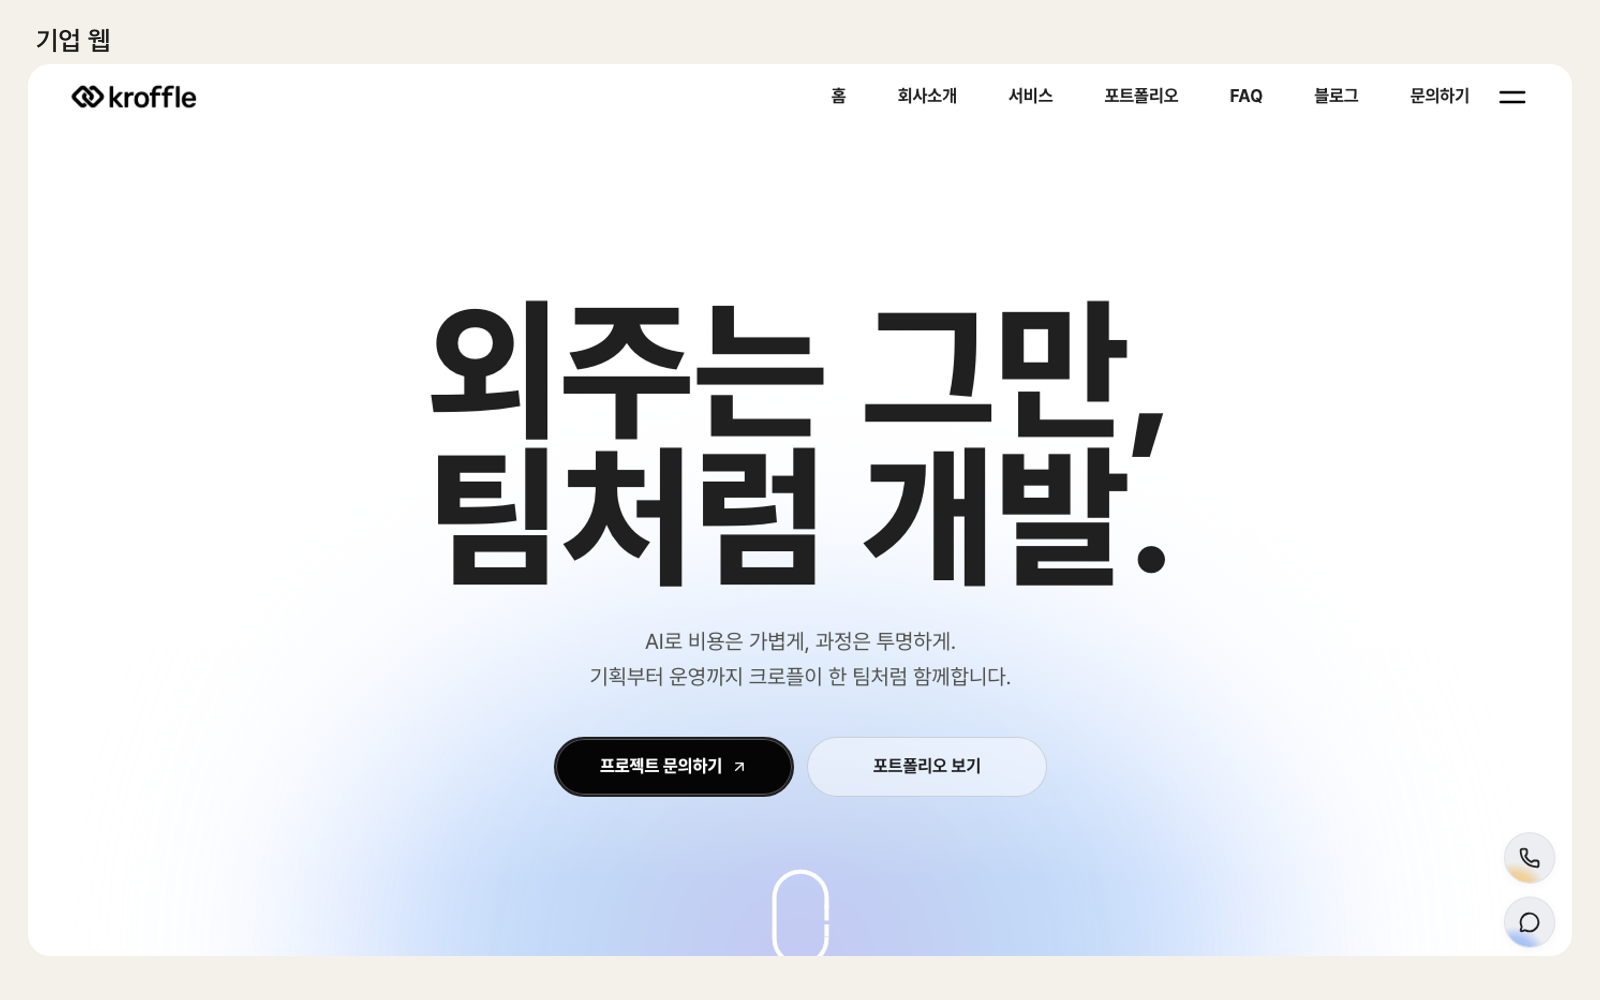
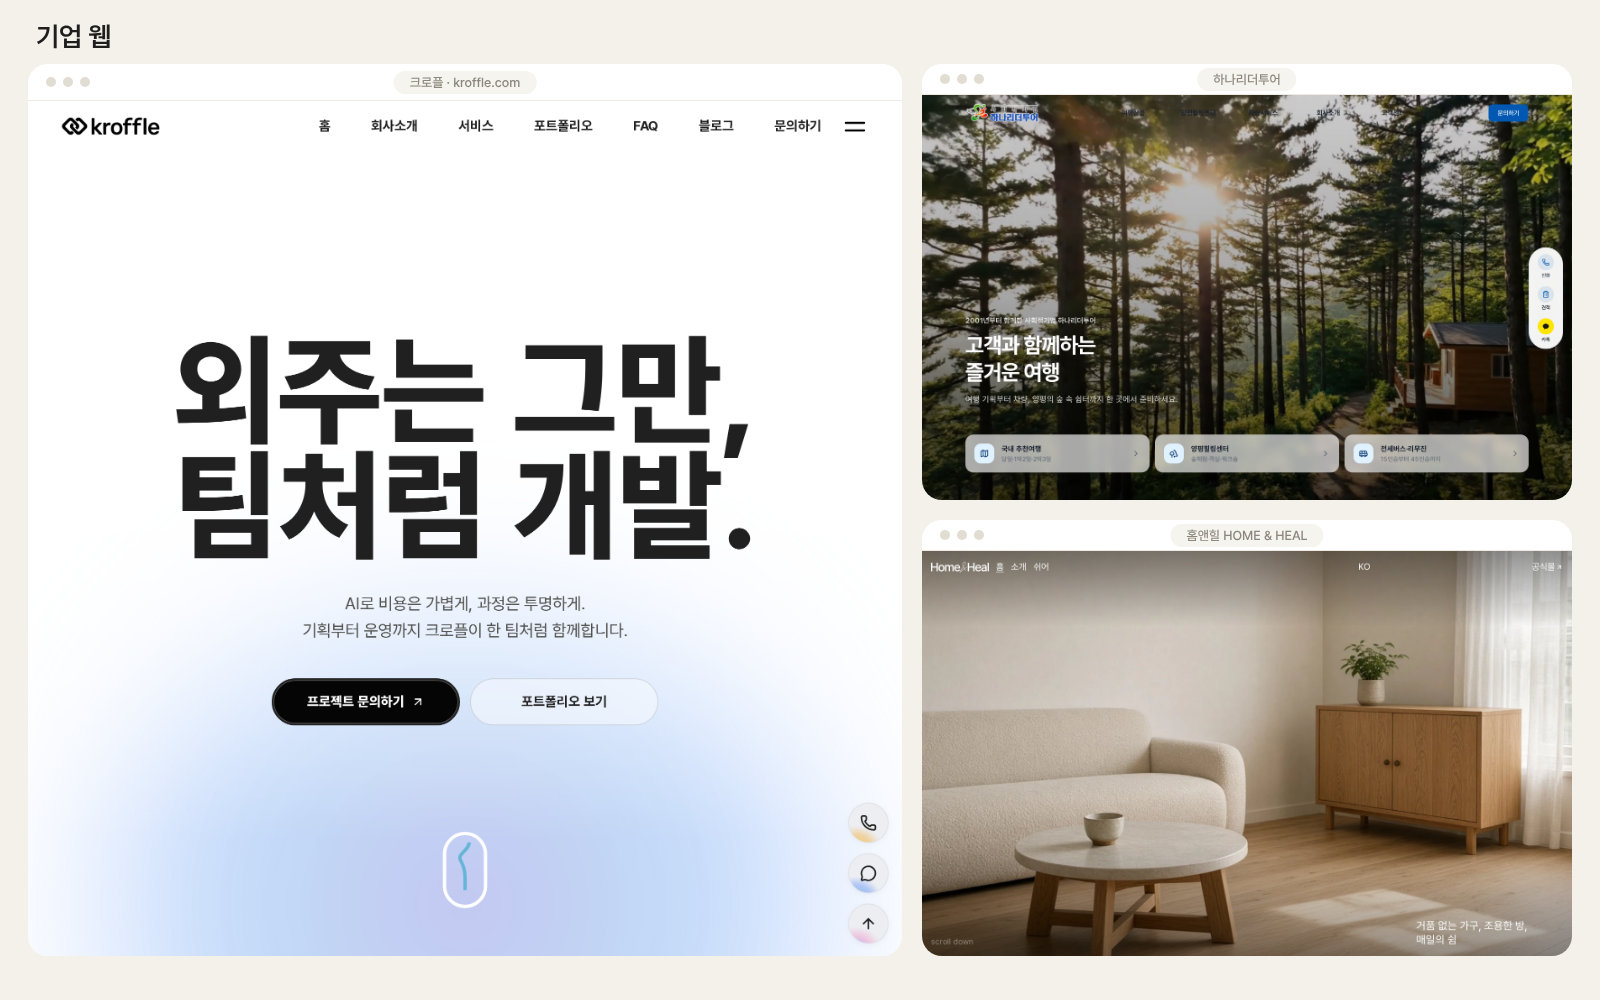
✨ feat: 기업·브랜드 웹 케이스를 9종 기준으로 갱신 - 하나리더투어·홈앤힐 구성, 기간, 카피 반영 - 하나 OG·홈앤힐 로고·As-Is/To-Be·관리자 화면 추가 - 케이스 카드 썸네일을 노션 카드로 교체

diff --git a/src/content/works.ts b/src/content/works.ts
@@ -138,16 +138,27 @@ export const WORKS: WorkItem[] = [
     slug: 'sites',
     label: 'SITES',
     labelEyebrow: 'SEO GEO AEO',
-    title: '기업·브랜드 웹 7종',
-    period: '2026.01 — 2026.08',
-    role: '프론트엔드, 공개 웹 7종, 다국어, SEO, 문의 연결',
+    title: '기업·브랜드 웹 9종',
+    period: '2026.01 — 2026.10',
+    role: '프론트엔드, 공개 웹 9종, 다국어, SEO, 문의 연결',
     oneLiner:
-      '공개 웹 7종의 우선순위는 검색 노출과 문의 전환이었습니다.\n다국어·SEO·인터랙션·문의를 리드 전환형으로 맞췄습니다.',
-    homeLine: '크로플 · 감탄누수 · 빛자루 · 고야차트 · 탑애드 · 현중고차 · 시하디자인',
-    stack: ['Next.js 16', 'React 19', 'TypeScript', 'Tailwind CSS 4', 'shadcn/ui', 'next-intl', 'GSAP', 'Motion', 'Solapi'],
+      '기업·브랜드 웹 9종.\n다국어, 검색 노출, 문의 접수까지 사이트마다 다르게 붙였습니다.',
+    homeLine: '크로플 · 하나리더투어 · 홈앤힐 · 감탄누수 외 5',
+    stack: [
+      'Next.js 16',
+      'React 19',
+      'TypeScript',
+      'Tailwind CSS 4',
+      'shadcn/ui',
+      'next-intl',
+      'GSAP',
+      'Motion',
+      'Solapi',
+      'Cloudflare',
+    ],
     thumb: {
       src: '/images/works/card-sites.png',
-      alt: '크로플 기업 웹 첫 화면. 외주는 그만, 팀처럼 개발.',
+      alt: '기업 웹 카드. 크로플, 하나리더투어, 홈앤힐 첫 화면.',
     },
     compare: {
       src: '/images/works/brandweb-1-v2.png',
@@ -159,6 +170,24 @@ export const WORKS: WorkItem[] = [
         note: 'IT 아웃소싱 공식 웹. 4개 국어 URL·메타, 커피챗 Solapi',
         url: 'https://www.kroffle.com/kr',
         image: { src: '/images/works/site-kroffle.jpg', alt: '크로플 공유 이미지. 내부 팀처럼 일하는 IT 개발 파트너.' },
+      },
+      {
+        name: '하나리더투어',
+        note: '사회적기업 여행사 공개 웹·관리자. D1·R2 공유, 관리자는 Cloudflare Access',
+        url: 'https://hana-web.alleo.workers.dev/',
+        image: {
+          src: '/images/works/site-hana.jpg',
+          alt: '하나리더투어 공유 이미지. 사회적기업, 국내여행·전세버스·양평힐링센터.',
+        },
+      },
+      {
+        name: '홈앤힐',
+        note: '가구 브랜드 웹. 소파·식탁·침대·수납장',
+        url: 'https://homeandheal-web.alleo.workers.dev/ko',
+        image: {
+          src: '/images/works/site-homeandheal.jpg',
+          alt: '홈앤힐 로고. Home&Heal.',
+        },
       },
       {
         name: '감탄누수',
@@ -243,10 +272,10 @@ export const WORKS: WorkItem[] = [
       {
         title: '문의와 작업 나누기',
         problem:
-          '문의가 폼에만 쌓이면 담당자가 바로 받지 못합니다. 사이트 7개가 비슷한 시기에 돌아가 브랜치와 작업 맥락이 섞였습니다.',
+          '문의가 폼에만 쌓이면 담당자가 바로 받지 못합니다. 사이트 9개가 비슷한 시기에 돌아가 브랜치와 작업 맥락이 섞였습니다.',
         choice:
-          '문의 폼이 있는 사이트는 Solapi로 담당자에게 문자를 보냅니다. 사이트마다 git worktree로 작업 폴더를 나눴습니다.',
-        result: '공개 웹 7종입니다. 문의가 있는 사이트는 제출이 담당자 문자까지 이어집니다.',
+          '크로플·감탄누수·고야차트는 Solapi로 담당자에게 문자를 보냅니다. 사이트마다 git worktree로 작업 폴더를 나눴습니다.',
+        result: '공개 웹 9종입니다. 문의가 있는 사이트는 제출이 담당자 알림까지 이어집니다.',
         shots: [
           {
             src: '/images/works/brandweb-3-v2.png',
@@ -256,9 +285,32 @@ export const WORKS: WorkItem[] = [
           },
         ],
       },
+      {
+        title: '공개 웹과 관리자를 같이',
+        problem:
+          '하나리더투어는 공개 웹과 관리자가 상품·문의·이미지를 같이 써야 했습니다. 관리자에는 고객 연락처가 보여, 정해진 담당자만 들어가야 했습니다.',
+        choice:
+          '두 앱이 Cloudflare D1과 R2를 공유합니다. 관리자 로그인은 직접 만들지 않고, Cloudflare Access로 허용한 이메일만 인증 코드를 받아 들어오게 했습니다.',
+        result: '짧은 일정에도 연락처가 있는 화면은 먼저 닫아 두었습니다. 담당자가 바뀌면 허용 목록만 고칩니다.',
+        shots: [
+          {
+            src: '/images/works/brandweb-4-v2.png',
+            alt: 'As-Is / To-Be. 하나 공개 웹과 관리자가 D1·R2를 공유하고 Access로 관리자를 닫는 구조.',
+            caption: '공개 웹과 관리자가 데이터와 이미지를 공유하고, 관리자는 허용 이메일만 들어옵니다.',
+            wide: true,
+          },
+          {
+            src: '/images/works/hana-admin-dashboard.png',
+            alt: '하나리더투어 관리자 대시보드. 읽지 않은 문의, 상품, 힐링센터, 공지 수.',
+            caption: '관리자에서 문의 확인부터 상품·힐링센터·공지 등록까지 처리합니다.',
+          },
+        ],
+      },
     ],
     links: [
       { label: '크로플', url: 'https://www.kroffle.com/kr' },
+      { label: '하나리더투어', url: 'https://hana-web.alleo.workers.dev/' },
+      { label: '홈앤힐', url: 'https://homeandheal-web.alleo.workers.dev/ko' },
       { label: '감탄누수', url: 'https://gamtannusu.com' },
       { label: '요셉씨의 빛자루', url: 'https://joecbroom-web.pages.dev/' },
       { label: '고야차트', url: 'https://exproject.work' },
@@ -436,7 +488,7 @@ export const WORKS: WorkItem[] = [
     status: '진행 중',
     role: '기획·UI·기능·인프라',
     oneLiner: '토이프로젝트를 어필 카드로 바꿔 공유하고,\n써 본 사람이 피드백을 남기는 플랫폼입니다.',
-    homeLine: '공개 웹 · 운영 콘솔',
+    homeLine: '어필 카드 · 체험 · 피드백',
     stack: ['Next.js', 'TypeScript', 'Tailwind', 'TanStack Query', 'Zustand', 'Supabase'],
     thumb: {
       src: '/images/works/card-useme.png',

diff --git a/src/sections/Method.tsx b/src/sections/Method.tsx
@@ -20,7 +20,7 @@ const INDEX: IndexRow[] = [
     name: '주식회사 크로플 · Frontend Developer',
     meta: '2025.05 —',
     note:
-      '중대재해 관리 백오피스 FE.\n메뉴·권한·조직 선택을 공통 구조로 묶었습니다.\n\n공개 웹 7종.\n다국어 주소, 검색, 문의까지 같은 규칙으로 맞췄습니다.\n\nAlleo AI SaaS.\n분석부터 글·발행까지 이어지는 콘솔 프론트를 맡았습니다.',
+      '중대재해 관리 백오피스 FE.\n메뉴·권한·조직 선택을 공통 구조로 묶었습니다.\n\n공개 웹 9종.\n다국어 주소, 검색, 문의까지 같은 규칙으로 맞췄습니다.\n\nAlleo AI SaaS.\n분석부터 글·발행까지 이어지는 콘솔 프론트를 맡았습니다.',
   },
   {
     tag: 'CAMP',
